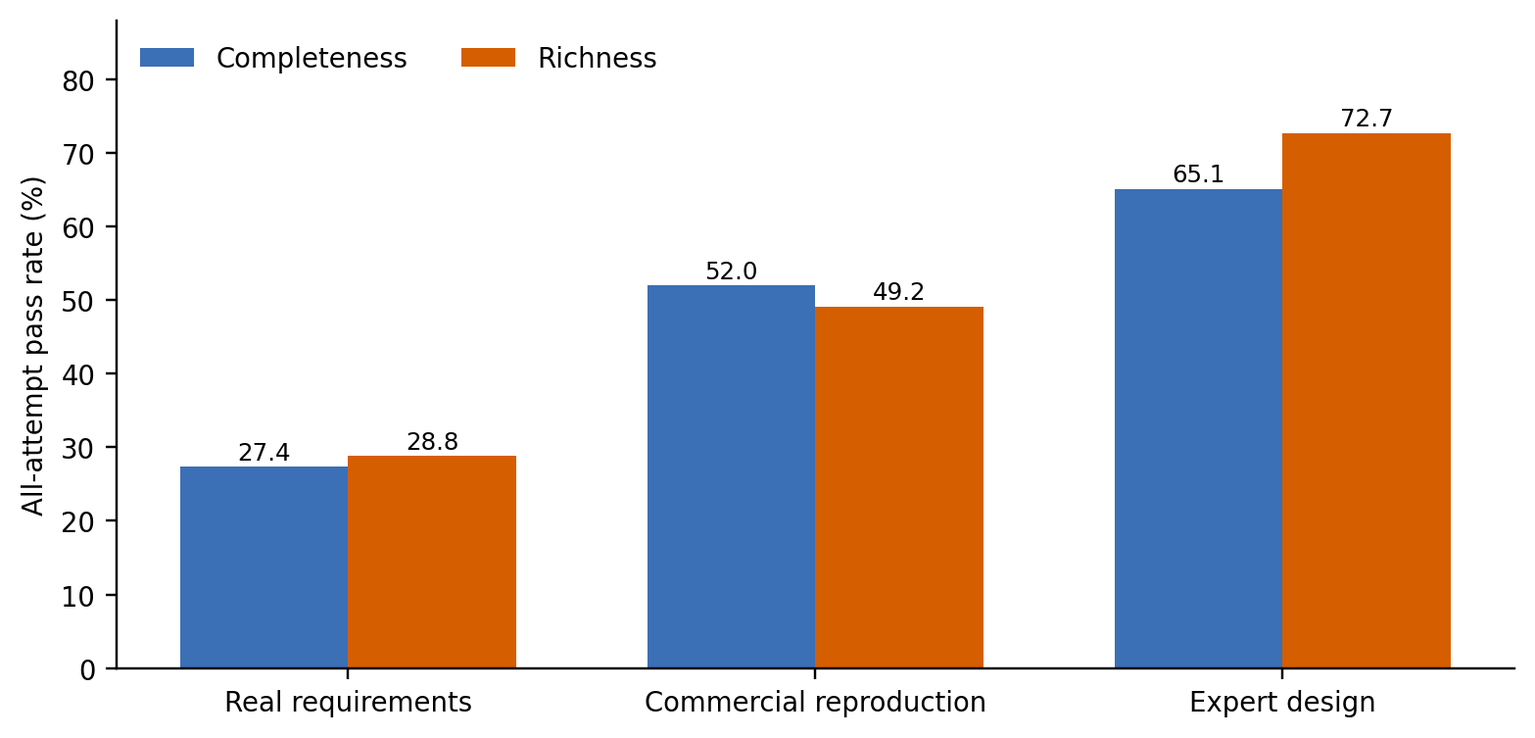
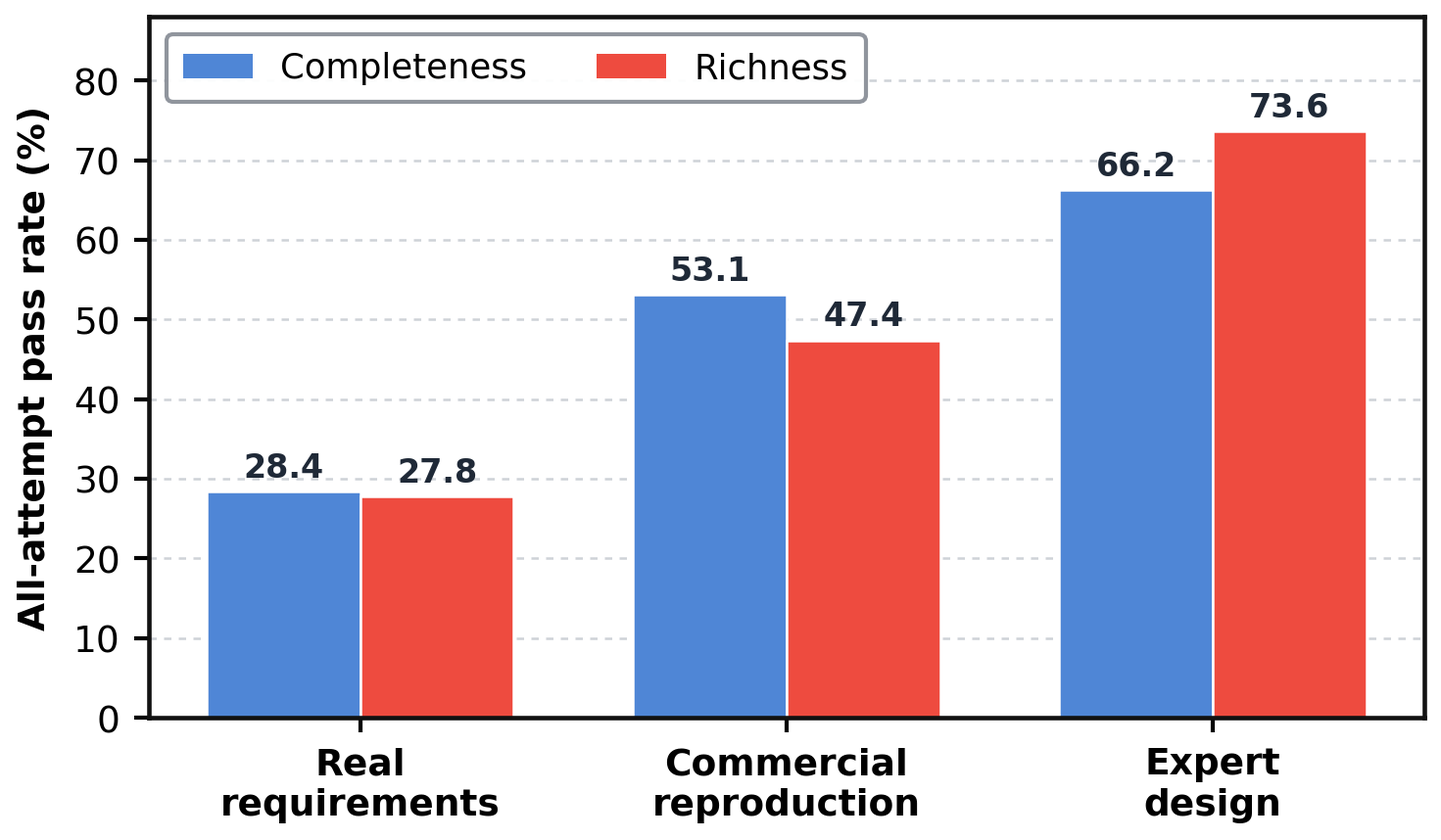
Align site with the final paper: 11 models, gate-zero scoring, authors, figures

diff --git a/data/content.js b/data/content.js
@@ -1,4 +1,4 @@
-// 结构化的页面内容。来源：website_summary_20261020（分析版本 2026-10-15）。
+// 结构化的页面内容。来源：论文 H5_benchmark (5).pdf 与 2026-10-24 统一数据。
 window.BENCH = window.BENCH || {};
 
 // 首屏下方数字条
@@ -6,7 +6,7 @@ BENCH.stats = [
   { value: "180", label: "Tasks" },
   { value: "1,800", label: "Requirements" },
   { value: "8", label: "Capability dimensions" },
-  { value: "12", label: "Model–harness pairs" },
+  { value: "11", label: "Model–harness pairs" },
 ];
 
 // 设计原则。key 为小标签（像素字体显示）
@@ -18,14 +18,17 @@ BENCH.desiderata = [
 
 // 与已有 benchmark 对比。true/false 渲染为 ✓/✗，字符串原样显示
 BENCH.comparison = {
-  columns: ["Benchmark", "Environment", "Tasks", "Capability-controlled", "Hidden requirements", "Mobile Web", "Complete game"],
+  columns: ["Benchmark", "Capability-controlled", "Richness", "Mobile Web", "Complete game", "Tasks", "Requirements"],
   rows: [
-    ["GameDevBench", "Godot editor tasks", "333", false, false, false, false],
-    ["OpenGame-Bench", "Web game generation", "150", false, false, false, true],
-    ["GameCraft-Bench", "Real game engine", "140", false, "Partial", false, true],
-    ["WebGameBench", "Browser games", "111", false, false, false, true],
-    ["GameXpert-Bench", "Web games", "97", false, true, false, true],
-    { highlight: true, cells: ["OCTAVE (Ours)", "HTML5 / Web browser", "180", true, true, true, true] },
+    ["GameDevBench", false, false, false, false, "333", "—"],
+    ["OpenGame-Bench", false, false, false, true, "150", "—"],
+    ["V-GameGym", false, false, false, true, "2,219", "2,219†"],
+    ["GameGen-Verifier", false, false, false, true, "100", "—"],
+    ["GameCraft-Bench", false, true, false, true, "140", "2,305"],
+    ["WebGameBench", false, false, false, true, "111", "111†"],
+    ["GameXpert-Bench (GameGen)", false, true, false, true, "97", "—"],
+    ["GameEngine-Bench", false, false, false, false, "110", "—"],
+    { highlight: true, cells: ["OCTAVE (Ours)", true, true, true, true, "180", "1,800"] },
   ],
 };
 
@@ -43,56 +46,53 @@ BENCH.suiteSplit = [
   { label: "2D", count: 91 }, { label: "3D", count: 89 },
 ];
 
-// 示例任务（英文翻译，原始为中文）
+// 示例任务（与 octave-bench data/octave_180_en.jsonl 中的英文文本一致）
 BENCH.exampleTask = {
   id: "hard_action_rpg_3d_017",
   tags: "RPG · 3D · PC Web",
-  prompt: `Create a director-AI dynamic dungeon game. An invisible director adjusts pressure according to the player state, while a class-based party uses destructible walls to reroute.
+  prompt: `[Game] AI-Directed Dynamic Dungeon: an invisible director adjusts pressure to the player's condition, while squads with distinct roles reroute through destructible walls.
 
-Core mechanics
-A multi-level dungeon contains rooms, destructible walls, and enemy squads. The director continuously observes health, resources, progression speed, and kill efficiency: it increases pressure during efficient progression, slows down and provides supplies when the player is near death, and creates enemy-spawn waves with peaks and troughs. The party includes a tank, ranged attacker, and healer. After a wall is destroyed, both the player and enemies update their routes. Reaching the core wins; death loses.
+[Core mechanics] A multilevel dungeon contains rooms, destructible walls, and enemy squads. The director continually observes health, resources, progress rate, and kill efficiency, increasing pressure during efficient progress and easing off and providing supplies when the player is near death; spawn intervals create peaks and troughs. Squads include tanks, ranged attackers, and healers. Both player and enemy routes update when walls are blasted open. Reaching the core wins; death loses.
 
-Must implement
-In controlled runs, efficient and endangered players must experience different spawn intensity; sustained danger must trigger supplies or slower spawning; the spawn sequence must contain peaks and troughs; the three classes must act according to their roles; destroying a wall must open a traversable route that enemies can use; each level must remain connected, win/loss must be defined, and seeded restarts must be deterministic.
+[Required] Efficient and endangered players receive different spawn intensities in comparative runs; sustained danger produces supplies or slower spawning; the spawn sequence has peaks and troughs; the three roles act according to their responsibilities; blasted walls create traversable passages that enemies use; every floor is connected, win/loss handling is complete, and the seed yields consistent results.
 
-Creative freedom
-Class count, dungeon theme, equipment, and additional events are unconstrained.`,
+[Creative freedom] The number of roles, dungeon theme, equipment, and additional events are unrestricted; original designs are encouraged.`,
 };
 
 // 评测流程步骤
 BENCH.evalSteps = [
-  { title: "Generate", desc: "Each of 12 model–harness pairs (Claude Code or Codex CLI) builds every task from a blank workspace within 120 minutes. The final attempt is kept." },
-  { title: "Static gate", desc: "Entry files, imports and the execution path are checked in the source. Failures are flagged for diagnosis, not removed." },
-  { title: "Source judge", desc: "A judge reads the specification and source and marks every public and hidden requirement as pass or fail." },
-  { title: "Human cross-check", desc: "A sample of requirement judgments is re-labeled by people to measure where the judge disagrees." },
-  { title: "Average all attempts", desc: "All 2,160 attempts count. Missing artifacts score zero on all ten requirements." },
+  { title: "Generate", desc: "Each of 11 model–harness combinations (Claude Code or Codex CLI) builds every task from an empty workspace within 120 minutes. One final record is kept per model and task." },
+  { title: "Static gate", desc: "The evaluator checks entry files, dependencies and execution paths in the source to decide whether the project can run." },
+  { title: "Source judge", desc: "Given the specification and source, the evaluator marks every public and hidden requirement as pass or fail with evidence." },
+  { title: "Human cross-check", desc: "Requirement judgments on a limited sample are compared with human playtesting to locate disagreement." },
+  { title: "Score all records", desc: "All 1,980 records count. A gate failure or missing artifact scores zero on all ten requirements." },
 ];
 
 // 能力维度 C1–C8（key 需与 leaderboard.js 中 caps 的字段一致）
 BENCH.rubrics = [
-  { key: "C1", title: "Core Rules", desc: "Rules, state transitions, core mechanics, and win/loss conditions." },
-  { key: "C2", title: "AI / NPC", desc: "NPC behavior, decision logic, and autonomous system behavior." },
-  { key: "C3", title: "Numerical Design", desc: "Attributes, resources, economy, progression, and numerical relationships." },
-  { key: "C4", title: "Interaction & Input", desc: "Player input, interaction mappings, and controls." },
-  { key: "C5", title: "Levels & Scenes", desc: "Spatial organization, levels, scenes, and progression." },
-  { key: "C6", title: "Animation & Rendering", desc: "Rendering, animation, and dynamic visual states." },
-  { key: "C7", title: "Feedback & Game Feel", desc: "Visual, auditory, and state feedback linked to actions and events." },
-  { key: "C8", title: "Guidance & Meta-UI", desc: "Tutorials, hints, HUDs, menus, pausing, and end-of-game summaries." },
+  { key: "C1", title: "Core Rules", desc: "Game rules, state transitions, core mechanics, and win/loss conditions." },
+  { key: "C2", title: "AI/NPC", desc: "NPC behavior, decision logic, and autonomous system behavior." },
+  { key: "C3", title: "Numerical Design", desc: "Attributes, resources, economies, progression, and numerical relationships." },
+  { key: "C4", title: "Interaction and Input", desc: "Player input, interaction mapping, and game controls." },
+  { key: "C5", title: "Levels and Scenes", desc: "Spatial organization, levels, scenes, and game progression." },
+  { key: "C6", title: "Animation and Rendering", desc: "Rendering, animation, and dynamic visual states." },
+  { key: "C7", title: "Feedback and Game Feel", desc: "Visual, auditory, and state feedback related to actions and game events." },
+  { key: "C8", title: "Guidance and Meta-UI", desc: "Tutorials, prompts, HUDs, menus, pausing, and end states." },
 ];
 
 // 主要发现。stat 为大号数字（可选），image 为配图（可选）
 BENCH.findings = [
-  { title: "Delivering a working project is the first bottleneck", stat: "21.0%", statLabel: "of 2,160 attempts fail the static gate or produce no artifact",
-    desc: "Rates range from 13.3% for GPT-6-astra to 33.3% for Seed evolving. Because failed attempts stay in the averages, delivery problems lower every score downstream.", wide: true },
-  { title: "No independently judged system meets the specification reliably", stat: "44.7 / 40.7", statLabel: "Fable 5.1: best Completeness / Richness without self-evaluation",
-    desc: "Among combinations whose evaluator is a different model, none passes more than 50% of requirements on either layer." },
-  { title: "Task source changes how hard a task looks",
-    desc: "Player requests score 27.4% / 28.8% (Completeness / Richness), commercial-mechanics reconstructions 52.0% / 49.2%, and expert-designed tasks 65.1% / 72.7%.",
+  { title: "Delivering a working project is the first bottleneck", stat: "19.9%", statLabel: "of 1,980 records fail the static gate or have no artifact",
+    desc: "Rates range from 13.3% for GPT-6-astra to 26.7% for GLM-5.2 and DeepSeek-V4-Flash-0731. Across combinations, this rate is strongly negatively associated with Completeness and Richness (Spearman's ρ ≈ −0.70 and −0.72); GPT-5.5 is the exception, with a low gate-failure rate but low pass rates.", wide: true },
+  { title: "No non-self-evaluated combination passes half the requirements", stat: "44.7 / 38.5", statLabel: "best Completeness (Fable 5.1) / best Richness (Opus 5) without self-evaluation",
+    desc: "Overall Completeness is 33.2% and Richness 32.5%; excluding GPT-6-astra, whose evaluator is the same model, they are 30.8% and 31.0%." },
+  { title: "Task source changes which layer is harder",
+    desc: "Player requests score 28.4% / 27.8% (Completeness / Richness), commercial-mechanics reconstructions 53.1% / 47.4%, and expert-designed tasks 66.2% / 73.6%. Richness is higher only on expert-designed tasks.",
     image: "static/images/figures/finding-source.png" },
-  { title: "Capability gaps concentrate in experience-side loops",
-    desc: "C1 Core Rules and C3 Numerical Design are relatively strong, while C7 Feedback & Game Feel is lowest overall. On hidden requirements, C4 Interaction & Input also falls behind.",
+  { title: "AI/NPC and feedback loops are the clearest gaps",
+    desc: "C1 Core Rules (37.8%) and C3 Numerical Design (37.4%) have the highest combined pass rates; C2 AI/NPC (27.0%) and C7 Feedback and Game Feel (28.1%) the lowest. The pattern holds under multilabel aggregation and without self-evaluation.",
     image: "static/images/figures/finding-capability.png" },
-  { title: "One aggregate hides platform and evaluator effects",
-    desc: "Mobile scores higher than PC on both layers and fails the gate less often, and GPT-6-astra benefits from same-model evaluation. Read rankings together with task composition and evaluator setup.",
+  { title: "Mobile scores higher than PC everywhere",
+    desc: "Mobile has a lower gate-failure rate (12.4% vs. 26.6%) and higher Completeness / Richness (38.6% / 41.8% vs. 28.4% / 24.2%), for all 11 combinations and all eight capabilities. The direction holds on the shared-source subset; task content and protocols still differ between tracks.",
     image: "static/images/figures/finding-platform.png" },
 ];

diff --git a/index.html b/index.html
@@ -46,24 +46,28 @@
         <p class="hero-subtitle">A Capability-Resolved Benchmark for End-to-End HTML5 Game Generation</p>
 
         <p class="authors">
-          <span class="author">Kehang Li<sup>1,4,*</sup></span>,
-          <span class="author">Xinlan Xu<sup>3,*</sup></span>,
+          <span class="author">Kehang Li<sup>1,5,*</sup></span>,
+          <span class="author">Xinlan Xu<sup>4,*</sup></span>,
           <span class="author">Yulin Jin<sup>2</sup></span>,
+          <span class="author">Wen Zhou<sup>3</sup></span>,
+          <span class="author">Guangfu Yang<sup>3</sup></span>,
           <span class="author">Heng Cao<sup>2</sup></span>,
-          <span class="author">Xuchen Li<sup>4</sup></span>,
-          <span class="author">Houxian Ren<sup>3</sup></span>,
+          <span class="author">Xuchen Li<sup>5</sup></span>,
+          <span class="author">Houxian Ren<sup>4</sup></span>,
           <span class="author">Zihao Ji<sup>2</sup></span>,
           <span class="author">Qiang Luo<sup>2</sup></span>,
           <span class="author">Yadong Mao<sup>2</sup></span>,
+          <span class="author">Qilin He<sup>2</sup></span>,
           <span class="author">Jian Zhang<sup>2</sup></span>,
-          <span class="author">Jian Zhao<sup>4</sup></span>,
-          <span class="author">Zihao Wang<sup>3,c</sup></span>
+          <span class="author">Jian Zhao<sup>5</sup></span>,
+          <span class="author">Zihao Wang<sup>4,c</sup></span>
         </p>
         <p class="affiliations">
-          <span class="aff"><sup>1</sup>School of Mathematical Sciences, Institute of Natural Sciences, Shanghai Jiao Tong University</span>
+          <span class="aff"><sup>1</sup>Shanghai Jiao Tong University</span>
           <span class="aff"><sup>2</sup>Rezona Lab</span>
-          <span class="aff"><sup>3</sup>Shandong University</span>
-          <span class="aff"><sup>4</sup>Zhongguancun Academy</span>
+          <span class="aff"><sup>3</sup>Beijing Volcano Engine Technology Co., Ltd.</span>
+          <span class="aff"><sup>4</sup>Shandong University</span>
+          <span class="aff"><sup>5</sup>Zhongguancun Academy</span>
           <span class="aff"><sup>*</sup>Equal contribution &nbsp; <sup>c</sup>Corresponding author</span>
         </p>
 
@@ -111,8 +115,8 @@
             <h2>A single score can’t say which game-development capabilities an agent has. Requirement-level evidence can.</h2>
           </div>
           <div class="prose" id="abstract">
-            <p>Complete game generation requires agents to coordinate rules, interaction, state, and presentation throughout a long-horizon development process. A single game-level score cannot identify which development capabilities agents implement or where requirements remain unmet. We introduce OCTAVE, which organizes tasks by eight Capability Dimensions and diagnoses implementation through requirement-level evidence. Its 180 tasks and 1,800 Evaluation Requirements cover player requests, commercial mechanics, expert designs, PC Web, Mobile Web, 2D, and 3D. Public Completeness requirements and hidden Richness requirements distinguish explicit functionality from deeper system relationships.</p>
-            <p>Across all attempts from 12 model–harness combinations, retaining static-gate-failure judgments and assigning zero to missing artifacts, Completeness and Richness are 32.2% and 33.5%; 21.0% of attempts are flagged as gate failures or missing artifacts. Relative public/hidden performance varies across task sources, and capability orderings vary with task conditions. A limited human cross-check identifies human-satisfied but machine-failed requirements as the dominant disagreement. OCTAVE extends complete game generation evaluation to diagnostics grounded in requirements, capabilities, and task conditions.</p>
+            <p>Complete game generation requires an agent to coordinate rules, interactions, states, and presentation throughout a long-horizon development process. Reporting only a single game-level aggregate score makes it difficult to determine which game-development capabilities an agent has implemented and which types of requirements remain unmet. To address this issue, we present OCTAVE, a benchmark for complete HTML5 game generation that organizes tasks around capability coverage and diagnoses implementation differences through requirement-level evidence. We establish eight Capability Dimensions and construct 180 tasks with 1,800 Evaluation Requirements from three sources: real player requests, commercial-mechanics reconstruction, and human expert design. The benchmark covers PC Web, Mobile Web, 2D, and 3D. The requirements distinguish Completeness, which assesses publicly specified core implementation, from Richness, which assesses hidden, deeper system relationships; static source-code judgments are then used to analyze implementation performance under different task conditions.</p>
+            <p>An all-task evaluation of 11 model–harness combinations yields a Completeness of 33.2% and a Richness of 32.5%, while 19.9% of generation records are marked as static gate failures or missing artifacts. After excluding same-model self-evaluation, even the best-performing combination has pass rates below 50% for both public and hidden requirements, indicating substantial gaps in both project delivery and requirement implementation. Further analysis shows that Richness is not more difficult than Completeness under every task condition. Current systems perform relatively better on Core Rules and Numerical Design, whereas AI/NPC and Feedback and Game Feel constitute more prominent capability gaps. Requirement difficulty provides a coarse-grained stratification but is only weakly negatively correlated with actual pass rates. A human cross-check on a limited sample shows that requirements judged satisfied by humans but failed by the automated evaluator constitute the primary direction of disagreement. OCTAVE thus extends the evaluation of complete game generation beyond a single aggregate score into a diagnostic evaluation localized by requirement, capability, and task condition.</p>
           </div>
         </div>
         <figure class="figure">
@@ -134,7 +138,7 @@
         <div class="desiderata" id="desiderata"></div>
 
         <figure class="figure">
-          <a href="static/images/figures/pipeline.png" target="_blank" rel="noopener"><img data-ph="static/images/figures/pipeline.png" src="static/images/figures/pipeline.png" alt="Construction: theory, eight capabilities and three task sources are annotated, filtered by platform and specified as goal, mechanics and behavior, then turned into six public and four hidden requirements and reviewed. Evaluation: twelve model–harness pairs generate, a static gate checks entry files, imports and execution path, and a source judge marks each requirement pass or fail, with a human cross-check." /></a>
+          <a href="static/images/figures/pipeline.png" target="_blank" rel="noopener"><img data-ph="static/images/figures/pipeline.png" src="static/images/figures/pipeline.png" alt="Construction: theory, eight capabilities and three task sources are annotated, filtered by platform and specified as goal, mechanics and behavior, then turned into six public and four hidden requirements with a difficulty level and reviewed. Evaluation: eleven model–harness combinations (7 Claude Code, 4 Codex CLI) generate in 120 minutes from a blank start, a static gate checks entry files, imports and execution path (a failure zeroes every requirement), and a source judge marks each requirement pass or fail, with a human cross-check. Results are reported by capability, source and platform." /></a>
           <figcaption><b>Figure 2.</b> Benchmark construction (left) and evaluation (right). Tasks are selected for capability coverage, processed into platform-specific specifications, and constructed with public Completeness and hidden Richness requirements tagged C1–C8. Click to enlarge.</figcaption>
         </figure>
 
@@ -143,6 +147,7 @@
           <div class="table-wrap">
             <table class="table compare" id="comparisonTable"></table>
           </div>
+          <p class="table-note">Requirements are counted across games without repetition across models or runs. † Only an overall evaluation is available, so each game counts as one requirement. — The cited paper does not give enough information to determine the total.</p>
         </div>
 
         <div class="block split">
@@ -172,12 +177,8 @@
         </div>
         <ol class="pipeline" id="evalSteps"></ol>
         <figure class="figure">
-          <img data-ph="static/images/figures/eval-overview.png" src="static/images/figures/eval-overview.png" alt="Four stages: construct 180 tasks; generate 2,160 attempts with 12 model–harness pairs; judge and flag 452 static gate failures and 2 missing artifacts; average all attempts for 32.2% Completeness and 33.5% Richness." />
-          <figcaption><b>Figure 3.</b> All-attempt scoring. Gate flags are diagnostic and no score records are removed; across 21,600 requirement positions, Completeness is 32.2% and Richness 33.5%.</figcaption>
-        </figure>
-        <figure class="figure">
-          <img data-ph="static/images/figures/dataset.png" src="static/images/figures/dataset.png" alt="Bar charts of primary requirement coverage per capability C1–C8, task counts per design tier, and task coverage per capability." />
-          <figcaption><b>Figure 4.</b> Suite composition: requirements per primary capability (n = 1,800), tasks per design tier, and tasks covering each capability (n = 180). C7 Feedback &amp; Game Feel is the smallest group.</figcaption>
+          <img data-ph="static/images/figures/dataset.png" src="static/images/figures/dataset.png" alt="Bar charts of requirements per primary capability C1–C8, tasks covering each capability, and requirements per difficulty stratum (450 each)." />
+          <figcaption><b>Figure 3.</b> (a) Requirements per primary capability (the first capability label of each requirement, n = 1,800); (b) tasks covering each capability (n = 180); (c) requirements per difficulty stratum, four equal-count strata. C7 Feedback and Game Feel is the smallest group.</figcaption>
         </figure>
         <div class="block">
           <h3>Eight capability dimensions</h3>
@@ -270,7 +271,7 @@
           <!-- TODO(素材): BibTeX -->
 <pre id="bibtex">@article{rezona2026octave,
   title   = {OCTAVE: A Capability-Resolved Benchmark for End-to-End HTML5 Game Generation},
-  author  = {Li, Kehang and Xu, Xinlan and Jin, Yulin and Cao, Heng and Li, Xuchen and Ren, Houxian and Ji, Zihao and Luo, Qiang and Mao, Yadong and Zhang, Jian and Zhao, Jian and Wang, Zihao},
+  author  = {Li, Kehang and Xu, Xinlan and Jin, Yulin and Zhou, Wen and Yang, Guangfu and Cao, Heng and Li, Xuchen and Ren, Houxian and Ji, Zihao and Luo, Qiang and Mao, Yadong and He, Qilin and Zhang, Jian and Zhao, Jian and Wang, Zihao},
   journal = {arXiv preprint arXiv:XXXX.XXXXX},
   year    = {2026}
 }</pre>

diff --git a/data/leaderboard.js b/data/leaderboard.js
@@ -1,23 +1,22 @@
-// 排行榜数据：由 scripts/build_leaderboard.py 从 website_summary 导出包生成（分析版本 2026-10-15）。
+// 排行榜数据：由 scripts/build_leaderboard.py 从 octave-bench 的 results/leaderboard.csv 生成（数据版本 2026-10-24）。
 // completeness = 公开要求通过率，richness = 隐藏要求通过率，gateFail = 门禁失败或缺产物比例，
 // caps = C1–C8 primary capability 下的要求通过率。数值均为 0–100，保留 1 位小数。
 window.BENCH = window.BENCH || {};
 
 BENCH.leaderboard = {
-  updated: "2026-10-15",
-  note: "All 2,160 attempts (12 combinations × 180 tasks, one attempt each) are scored: gate failures keep their raw judgments and missing artifacts score zero. Fixed-sample descriptive results; no confidence intervals. † The evaluator is the same model.",
+  updated: "2026-10-24",
+  note: "All 1,980 records (11 combinations × 180 tasks, one final record each) are scored; a record that fails the static gate or has no artifact scores zero on every public and hidden requirement. Fixed-sample descriptive results; no confidence intervals. † The evaluator is the same model.",
   entries: [
-    {"model": "GPT-6-astra", "org": "OpenAI", "key": "codex_gpt_6_astra", "harness": "Codex CLI", "selfEval": true, "completeness": 57.1, "richness": 49.3, "gateFail": 13.3, "caps": {"C1": 58.1, "C2": 46.7, "C3": 58.3, "C4": 55.2, "C5": 52.5, "C6": 51.1, "C7": 57.6, "C8": 54.0}},
-    {"model": "Fable 5.1", "org": "Anthropic", "key": "cc_fable_5_1", "harness": "Claude Code", "selfEval": false, "completeness": 44.7, "richness": 40.7, "gateFail": 17.8, "caps": {"C1": 43.9, "C2": 40.1, "C3": 46.6, "C4": 39.3, "C5": 45.9, "C6": 42.9, "C7": 41.2, "C8": 43.1}},
-    {"model": "Fable 5", "org": "Anthropic", "key": "cc_fable_5", "harness": "Claude Code", "selfEval": false, "completeness": 39.0, "richness": 39.3, "gateFail": 21.1, "caps": {"C1": 41.0, "C2": 35.2, "C3": 44.7, "C4": 40.8, "C5": 35.1, "C6": 36.4, "C7": 36.5, "C8": 41.4}},
-    {"model": "Opus 5", "org": "Anthropic", "key": "cc_opus_5", "harness": "Claude Code", "selfEval": false, "completeness": 37.2, "richness": 40.4, "gateFail": 16.1, "caps": {"C1": 45.1, "C2": 32.6, "C3": 40.9, "C4": 30.3, "C5": 41.3, "C6": 40.8, "C7": 29.4, "C8": 39.7}},
-    {"model": "GPT-5.6-sol", "org": "OpenAI", "key": "codex_gpt_5_6_sol", "harness": "Codex CLI", "selfEval": false, "completeness": 33.4, "richness": 32.6, "gateFail": 16.7, "caps": {"C1": 40.5, "C2": 27.6, "C3": 37.5, "C4": 28.9, "C5": 34.3, "C6": 27.7, "C7": 27.1, "C8": 33.3}},
-    {"model": "GLM-5.3", "org": "Zhipu AI", "key": "cc_glm_5_3", "harness": "Claude Code", "selfEval": false, "completeness": 31.1, "richness": 34.0, "gateFail": 21.7, "caps": {"C1": 34.7, "C2": 26.0, "C3": 37.5, "C4": 28.4, "C5": 33.1, "C6": 34.2, "C7": 24.7, "C8": 35.6}},
-    {"model": "GPT-5.5", "org": "OpenAI", "key": "codex_gpt_5_5", "harness": "Codex CLI", "selfEval": false, "completeness": 26.9, "richness": 28.3, "gateFail": 15.6, "caps": {"C1": 32.7, "C2": 20.1, "C3": 36.0, "C4": 25.9, "C5": 26.0, "C6": 26.6, "C7": 25.9, "C8": 23.0}},
-    {"model": "DeepSeek-V4.1-Flash", "org": "DeepSeek", "key": "cc_deepseek_flash_41", "harness": "Claude Code", "selfEval": false, "completeness": 25.9, "richness": 28.9, "gateFail": 20.6, "caps": {"C1": 32.7, "C2": 20.1, "C3": 34.5, "C4": 23.4, "C5": 21.5, "C6": 27.7, "C7": 21.2, "C8": 31.6}},
-    {"model": "GLM-5.2", "org": "Zhipu AI", "key": "cc_glm_5_2", "harness": "Claude Code", "selfEval": false, "completeness": 24.3, "richness": 28.1, "gateFail": 26.7, "caps": {"C1": 31.8, "C2": 21.4, "C3": 32.2, "C4": 22.9, "C5": 23.1, "C6": 26.6, "C7": 12.9, "C8": 24.1}},
-    {"model": "DeepSeek-V4-Flash-0731", "org": "DeepSeek", "key": "cc_deepseek_v4_flash", "harness": "Claude Code", "selfEval": false, "completeness": 23.5, "richness": 28.5, "gateFail": 26.7, "caps": {"C1": 32.4, "C2": 20.7, "C3": 25.0, "C4": 23.4, "C5": 25.6, "C6": 27.2, "C7": 15.3, "C8": 26.4}},
-    {"model": "DeepSeek-V4-Pro", "org": "DeepSeek", "key": "codex_deepseek_v4_pro", "harness": "Codex CLI", "selfEval": false, "completeness": 22.2, "richness": 27.5, "gateFail": 22.8, "caps": {"C1": 27.5, "C2": 19.4, "C3": 28.8, "C4": 24.9, "C5": 26.0, "C6": 17.4, "C7": 20.0, "C8": 26.4}},
-    {"model": "Seed evolving", "org": "ByteDance Seed", "key": "cc_seed_evolving", "harness": "Claude Code", "selfEval": false, "completeness": 21.0, "richness": 24.9, "gateFail": 33.3, "caps": {"C1": 28.0, "C2": 18.8, "C3": 28.4, "C4": 21.9, "C5": 21.9, "C6": 15.8, "C7": 8.2, "C8": 25.3}},
+    {"model": "GPT-6-astra", "org": "OpenAI", "key": "codex_gpt_6_astra", "harness": "Codex CLI", "selfEval": true, "completeness": 57.1, "richness": 47.6, "gateFail": 13.3, "caps": {"C1": 57.2, "C2": 45.4, "C3": 57.2, "C4": 54.7, "C5": 52.5, "C6": 51.1, "C7": 57.6, "C8": 53.4}},
+    {"model": "Fable 5.1", "org": "Anthropic", "key": "cc_fable_5_1", "harness": "Claude Code", "selfEval": false, "completeness": 44.7, "richness": 38.2, "gateFail": 17.8, "caps": {"C1": 43.4, "C2": 38.2, "C3": 45.1, "C4": 38.3, "C5": 45.0, "C6": 42.4, "C7": 41.2, "C8": 42.5}},
+    {"model": "Fable 5", "org": "Anthropic", "key": "cc_fable_5", "harness": "Claude Code", "selfEval": false, "completeness": 39.0, "richness": 36.4, "gateFail": 21.1, "caps": {"C1": 40.8, "C2": 33.9, "C3": 43.2, "C4": 39.3, "C5": 33.5, "C6": 34.8, "C7": 36.5, "C8": 40.2}},
+    {"model": "Opus 5", "org": "Anthropic", "key": "cc_opus_5", "harness": "Claude Code", "selfEval": false, "completeness": 37.2, "richness": 38.5, "gateFail": 16.1, "caps": {"C1": 44.2, "C2": 31.2, "C3": 39.8, "C4": 29.3, "C5": 40.5, "C6": 40.8, "C7": 29.4, "C8": 39.7}},
+    {"model": "GPT-5.6-sol", "org": "OpenAI", "key": "codex_gpt_5_6_sol", "harness": "Codex CLI", "selfEval": false, "completeness": 33.4, "richness": 31.5, "gateFail": 16.7, "caps": {"C1": 40.5, "C2": 26.3, "C3": 36.7, "C4": 28.9, "C5": 33.9, "C6": 27.7, "C7": 27.1, "C8": 32.8}},
+    {"model": "GLM-5.3", "org": "Zhipu AI", "key": "cc_glm_5_3", "harness": "Claude Code", "selfEval": false, "completeness": 31.1, "richness": 31.8, "gateFail": 21.7, "caps": {"C1": 34.4, "C2": 25.3, "C3": 36.0, "C4": 27.4, "C5": 32.2, "C6": 33.1, "C7": 24.7, "C8": 33.9}},
+    {"model": "GPT-5.5", "org": "OpenAI", "key": "codex_gpt_5_5", "harness": "Codex CLI", "selfEval": false, "completeness": 26.9, "richness": 27.9, "gateFail": 15.6, "caps": {"C1": 32.7, "C2": 19.7, "C3": 35.6, "C4": 25.4, "C5": 26.0, "C6": 26.6, "C7": 25.9, "C8": 23.0}},
+    {"model": "DeepSeek-V4.1-Flash", "org": "DeepSeek", "key": "cc_deepseek_flash_41", "harness": "Claude Code", "selfEval": false, "completeness": 25.9, "richness": 27.6, "gateFail": 20.6, "caps": {"C1": 32.7, "C2": 19.1, "C3": 33.3, "C4": 23.4, "C5": 20.7, "C6": 27.7, "C7": 20.0, "C8": 31.6}},
+    {"model": "GLM-5.2", "org": "Zhipu AI", "key": "cc_glm_5_2", "harness": "Claude Code", "selfEval": false, "completeness": 24.3, "richness": 25.8, "gateFail": 26.7, "caps": {"C1": 31.2, "C2": 20.4, "C3": 31.4, "C4": 21.9, "C5": 22.3, "C6": 25.0, "C7": 11.8, "C8": 23.6}},
+    {"model": "DeepSeek-V4-Flash-0731", "org": "DeepSeek", "key": "cc_deepseek_v4_flash", "harness": "Claude Code", "selfEval": false, "completeness": 23.5, "richness": 26.9, "gateFail": 26.7, "caps": {"C1": 31.8, "C2": 19.7, "C3": 24.6, "C4": 22.9, "C5": 25.2, "C6": 26.1, "C7": 15.3, "C8": 25.9}},
+    {"model": "DeepSeek-V4-Pro", "org": "DeepSeek", "key": "codex_deepseek_v4_pro", "harness": "Codex CLI", "selfEval": false, "completeness": 22.2, "richness": 25.3, "gateFail": 22.8, "caps": {"C1": 26.9, "C2": 17.8, "C3": 28.0, "C4": 23.9, "C5": 25.2, "C6": 16.9, "C7": 20.0, "C8": 25.3}},
   ],
 };

diff --git a/scripts/build_leaderboard.py b/scripts/build_leaderboard.py
@@ -1,51 +1,45 @@
-"""Regenerate data/leaderboard.js from the H5 website data export.
+"""Regenerate data/leaderboard.js from the OCTAVE repository's results.
 
-Usage: python3 scripts/build_leaderboard.py <export>/data > data/leaderboard.js
-Inputs: leaderboard_official.csv, model_capability_results.csv
+Usage: python3 scripts/build_leaderboard.py <octave-bench>/results/leaderboard.csv > data/leaderboard.js
+Input: results/leaderboard.csv written by scoring/leaderboard.py in rezona-ai/octave-bench.
 """
 import csv, sys, json
 
-d = sys.argv[1]
-META = {  # model_key -> (display name, org); names follow the paper's Table 5
-    "cc_deepseek_flash_41": ("DeepSeek-V4.1-Flash", "DeepSeek"),
-    "cc_deepseek_v4_flash": ("DeepSeek-V4-Flash-0731", "DeepSeek"),
-    "cc_fable_5": ("Fable 5", "Anthropic"),
-    "cc_fable_5_1": ("Fable 5.1", "Anthropic"),
-    "cc_glm_5_2": ("GLM-5.2", "Zhipu AI"),
-    "cc_glm_5_3": ("GLM-5.3", "Zhipu AI"),
-    "cc_opus_5": ("Opus 5", "Anthropic"),
-    "cc_seed_evolving": ("Seed evolving", "ByteDance Seed"),
-    "codex_deepseek_v4_pro": ("DeepSeek-V4-Pro", "DeepSeek"),
-    "codex_gpt_5_5": ("GPT-5.5", "OpenAI"),
-    "codex_gpt_5_6_sol": ("GPT-5.6-sol", "OpenAI"),
-    "codex_gpt_6_astra": ("GPT-6-astra", "OpenAI"),
+ORG = {  # model_key -> org; display names come from the CSV and follow the paper's Table 6
+    "cc_deepseek_flash_41": "DeepSeek",
+    "cc_deepseek_v4_flash": "DeepSeek",
+    "cc_fable_5": "Anthropic",
+    "cc_fable_5_1": "Anthropic",
+    "cc_glm_5_2": "Zhipu AI",
+    "cc_glm_5_3": "Zhipu AI",
+    "cc_opus_5": "Anthropic",
+    "codex_deepseek_v4_pro": "DeepSeek",
+    "codex_gpt_5_5": "OpenAI",
+    "codex_gpt_5_6_sol": "OpenAI",
+    "codex_gpt_6_astra": "OpenAI",
 }
 SELF_EVAL = {"codex_gpt_6_astra"}  # evaluator is the same model
-UPDATED = "2026-10-15"
+CAPS = [f"C{i}" for i in range(1, 9)]
+UPDATED = "2026-10-24"
 
 p = lambda x: round(float(x) * 100, 1)
-caps = {}
-for r in csv.DictReader(open(f"{d}/model_capability_results.csv", encoding="utf-8-sig")):
-    caps.setdefault(r["model_key"], {})[r["primary_paper"]] = p(r["rate"])
 rows = []
-for r in csv.DictReader(open(f"{d}/leaderboard_official.csv", encoding="utf-8-sig")):
-    k = r["model_key"]
-    name, org = META[k]
-    rows.append({"model": name, "org": org, "key": k,
-                 "harness": "Claude Code" if k.startswith("cc_") else "Codex CLI",
+for r in csv.DictReader(open(sys.argv[1], encoding="utf-8-sig")):
+    k = r["model"]
+    rows.append({"model": r["model_name"], "org": ORG[k], "key": k, "harness": r["harness"],
                  "selfEval": k in SELF_EVAL,
-                 "completeness": p(r["public_rate"]), "richness": p(r["hidden_rate"]),
-                 "gateFail": p(r["failure_rate"]), "caps": caps[k]})
+                 "completeness": p(r["completeness"]), "richness": p(r["richness"]),
+                 "gateFail": p(r["gate_fail_rate"]), "caps": {c: p(r[c]) for c in CAPS}})
 rows.sort(key=lambda e: -e["completeness"])
 
-print(f"""// 排行榜数据：由 scripts/build_leaderboard.py 从 website_summary 导出包生成（分析版本 {UPDATED}）。
+print(f"""// 排行榜数据：由 scripts/build_leaderboard.py 从 octave-bench 的 results/leaderboard.csv 生成（数据版本 {UPDATED}）。
 // completeness = 公开要求通过率，richness = 隐藏要求通过率，gateFail = 门禁失败或缺产物比例，
 // caps = C1–C8 primary capability 下的要求通过率。数值均为 0–100，保留 1 位小数。
 window.BENCH = window.BENCH || {{}};
 
 BENCH.leaderboard = {{
   updated: "{UPDATED}",
-  note: "All 2,160 attempts (12 combinations × 180 tasks, one attempt each) are scored: gate failures keep their raw judgments and missing artifacts score zero. Fixed-sample descriptive results; no confidence intervals. † The evaluator is the same model.",
+  note: "All 1,980 records (11 combinations × 180 tasks, one final record each) are scored; a record that fails the static gate or has no artifact scores zero on every public and hidden requirement. Fixed-sample descriptive results; no confidence intervals. † The evaluator is the same model.",
   entries: [""")
 for e in rows:
     print("    " + json.dumps(e, ensure_ascii=False) + ",")
